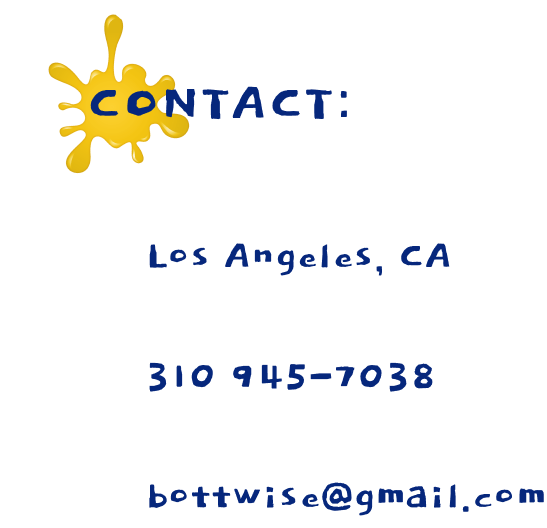
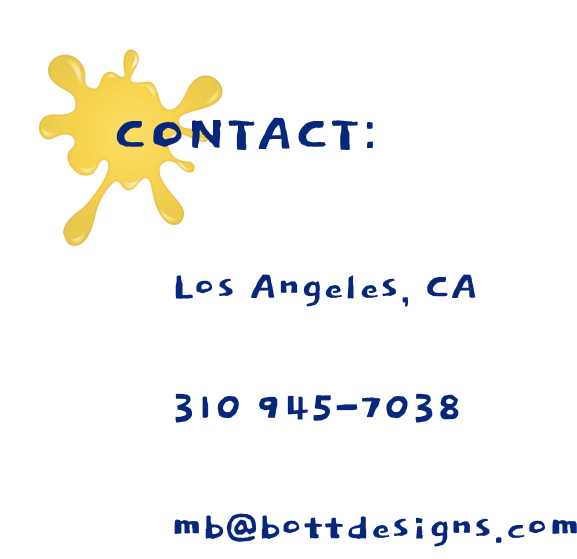
7-12-24

diff --git a/CSS/homestyle.css b/CSS/homestyle.css
@@ -55,12 +55,12 @@
   width: 180px;
   height: 200px;
   margin-bottom: 10px;
-  background-image: url(../Images/Ithink-NO-CHECKMARK.png);
+  background-image: url(../Images/Ithink-CHECKMARK.png);
   background-size: cover;
   transition: background-image 0.3s ease;
 
 }
 
 .think-box:hover {
-    background-image: url(../Images/Ithink-CHECKMARK.png);
+    background-image: url(../Images/Ithink-NO-CHECKMARK.png);
 }

diff --git a/contact.html b/contact.html
@@ -23,7 +23,7 @@
 
     <section class="flex-container" style="justify-content: center; align-items: center;">
         
-            <img src="Images/ME-Contact.png" height="25%" width="25%">
+            <img src="Images/ME-Contact.png" height="40%" width="40%">
             <img src="Images/CONTACT Info.png" height="100%" width="25%">
     
     </section>        
